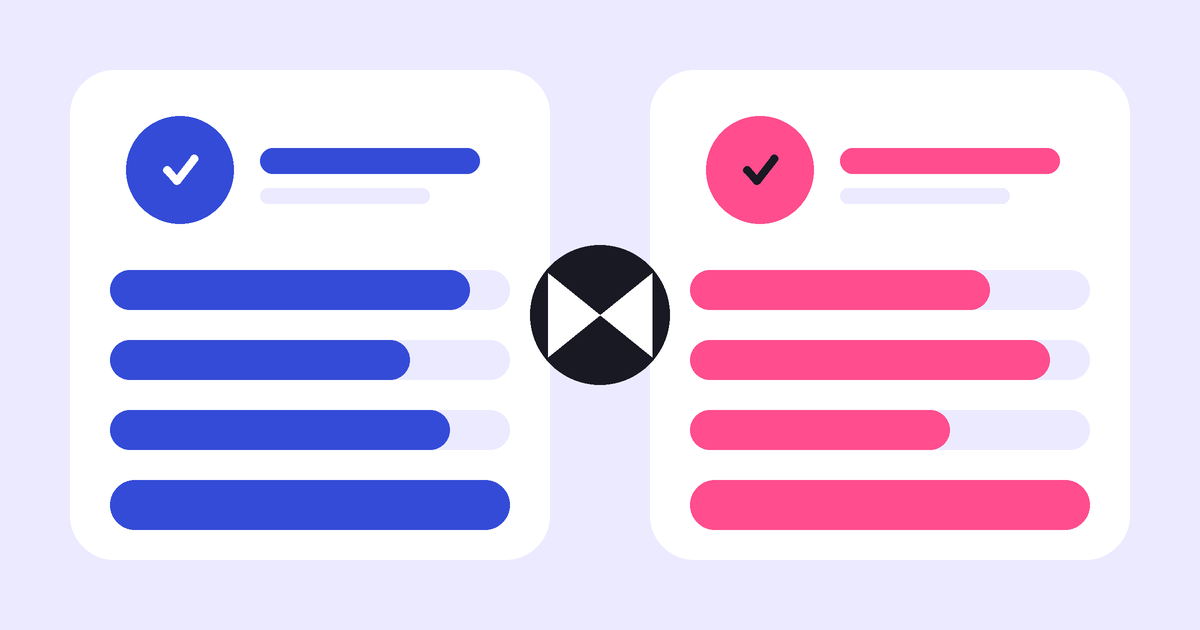
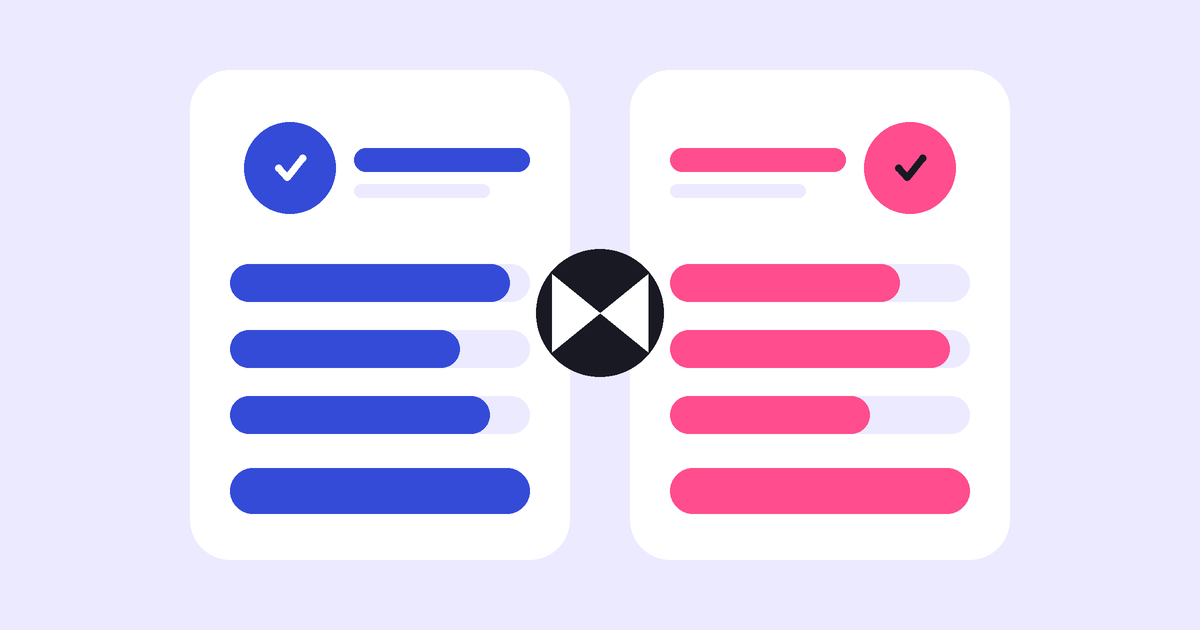
Fix the comparison cover getting cropped in the featured article slot
The featured-article cover is object-fit:cover at a narrower ratio
than the grid cards (measured ~72% of the width, centered), so it
crops roughly 168px off each side. The avatar circles and card edges
in the new "compare" cover sat right in that cropped zone. Redrew it
with everything inside the safe x=180..1020 band.

diff --git a/scripts/make_article_covers.py b/scripts/make_article_covers.py
@@ -298,32 +298,35 @@ def cover_errors():
 
 
 def cover_compare():
+    # The featured-article slot crops this to a narrower ratio than the grid
+    # cards (roughly 72% of the width, centered), so keep every shape inside
+    # x=180..1020 — only the outer lavender margin is safe to lose.
     c = Canvas(LAVENDER)
-    c.rect(70, 70, 480, 490, 44, WHITE)
-    c.circle(180, 170, 54, BLUE)
-    c.tick(180, 170, WHITE, 1.6, 8)
-    c.rect(260, 148, 220, 26, 13, BLUE)
-    c.rect(260, 188, 170, 16, 8, LAVENDER)
-    for i, w in enumerate((360, 300, 340)):
-        y = 270 + i * 70
-        c.rect(110, y, 400, 40, 20, LAVENDER)
-        c.rect(110, y, w, 40, 20, BLUE)
-    c.rect(110, 480, 400, 50, 25, BLUE)
+    c.rect(190, 70, 380, 490, 40, WHITE)
+    c.circle(290, 168, 46, BLUE)
+    c.tick(290, 168, WHITE, 1.4, 7)
+    c.rect(354, 148, 176, 24, 12, BLUE)
+    c.rect(354, 184, 136, 14, 7, LAVENDER)
+    for i, w in enumerate((280, 230, 260)):
+        y = 264 + i * 66
+        c.rect(230, y, 300, 38, 19, LAVENDER)
+        c.rect(230, y, w, 38, 19, BLUE)
+    c.rect(230, 468, 300, 46, 23, BLUE)
 
-    c.rect(650, 70, 480, 490, 44, WHITE)
-    c.circle(760, 170, 54, PINK)
-    c.tick(760, 170, INK, 1.6, 8)
-    c.rect(840, 148, 220, 26, 13, PINK)
-    c.rect(840, 188, 170, 16, 8, LAVENDER)
-    for i, w in enumerate((300, 360, 260)):
-        y = 270 + i * 70
-        c.rect(690, y, 400, 40, 20, LAVENDER)
-        c.rect(690, y, w, 40, 20, PINK)
-    c.rect(690, 480, 400, 50, 25, PINK)
+    c.rect(630, 70, 380, 490, 40, WHITE)
+    c.circle(910, 168, 46, PINK)
+    c.tick(910, 168, INK, 1.4, 7)
+    c.rect(670, 148, 176, 24, 12, PINK)
+    c.rect(670, 184, 136, 14, 7, LAVENDER)
+    for i, w in enumerate((230, 280, 200)):
+        y = 264 + i * 66
+        c.rect(670, y, 300, 38, 19, LAVENDER)
+        c.rect(670, y, w, 38, 19, PINK)
+    c.rect(670, 468, 300, 46, 23, PINK)
 
-    c.circle(600, 315, 70, INK)
-    c.poly([(548, 273), (548, 357), (600, 315)], WHITE)
-    c.poly([(652, 273), (652, 357), (600, 315)], WHITE)
+    c.circle(600, 313, 64, INK)
+    c.poly([(552, 274), (552, 352), (600, 313)], WHITE)
+    c.poly([(648, 274), (648, 352), (600, 313)], WHITE)
     return c
 
 
